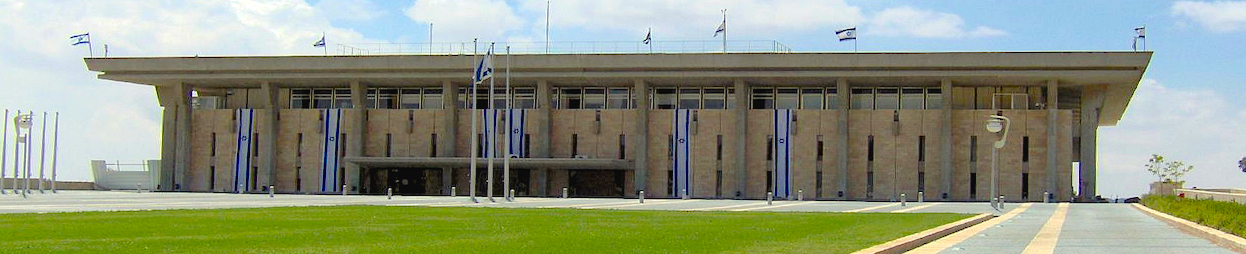
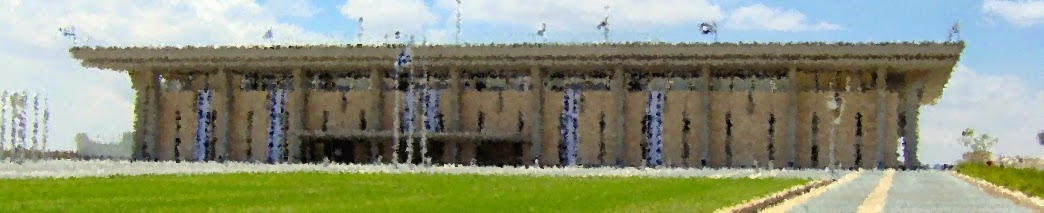
layout

diff --git a/app/assets/stylesheets/home.css.scss b/app/assets/stylesheets/home.css.scss
@@ -3,8 +3,7 @@
 // You can use Sass (SCSS) here: http://sass-lang.com/
 
 html, body {
-  background-image: url("brickwall.png"); 
-  /*background-color: #181818 !important;*/
+  background-color: #DDDDDD !important;
 }
 
 .container {
@@ -12,14 +11,12 @@ html, body {
 }
 
 .home-header {
-  background: url(knesset2.jpg) no-repeat left;
-  background-size: 100%;
   padding-top: 20px;
   padding-bottom: 0px;
   font-size: 24px;
   text-align: left;
   margin-bottom: 20px;
-  border: 1px solid #FFFFFF !important;
+  border-bottom: 1px solid #FFFFFF !important;
   box-shadow: 1px 1px 1px #9c9c9c !important;
 }
 
@@ -58,7 +55,7 @@ margin-right: -15px !important;
 }
 
 .navbar {
-  margin-top: 120px;
+  margin-top: 130px;
   background: #4F2C4D !important; 
   opacity: 0.95 !important;
   border: 1px solid #ffffff !important;
@@ -68,12 +65,12 @@ margin-right: -15px !important;
 }
 
 .navbar .nav {
-  padding-right: 100px;
+  padding-right: 50px;
 }
 
 .navbar .nav > li {
   font-family: 'Oswald', sans-serif;
-  font-size: 18px;
+  font-size: 16px;
   padding-right: 5px;
 }
 
@@ -82,17 +79,17 @@ margin-right: -15px !important;
 }
 
 .navbar-nav > li > a:hover {
-  background-color: #bb84b8 !important;
+  background-color: #c291bf !important;
 }
 
 .nav-search {
-  padding: 0px 350px 0px 0px;
+  padding: 0px 450px 0px 0px;
 }
 
 .nav-pills > li > a {
   font-size: 1.4em;
-  color: #708090;
-  background-color: #d4d8dd;
+  color: #585858;
+  background-color: #c6c6c6;
   margin-bottom: 20px !important;
 }
 
@@ -105,19 +102,19 @@ margin-right: -15px !important;
 }
 
 .title {
-  color: #708090;
+  color: #585858;
   margin-top: 5px !important;
   margin-bottom: 15px !important;
 }
 
 .title-small {
-  color: #708090;
+  color: #585858;
   margin-top: 0px !important;
   margin-bottom: 10px !important;
 }
 
 .post {
-  border: 1px solid #dbdee2;
+  border: 1px solid #c6c6c6;
   border-radius: 3px;
   margin: 5px;
   position: relative;
@@ -158,14 +155,16 @@ margin-right: -15px !important;
 }
 
 .latest-raw-posts {
-  margin-top: 150px;
+  margin-top: 128px;
   padding-top: 20px;
-  border: 1px solid #dbdee2;
+  border: 1px solid #c6c6c6;
   background: #ffffff;
+  opacity: 0.7;
 }
 
 .raw-small-title {
-  color: #FFFFFF;
+  color: #585858;
+  margin-top:-5px;
 }
 
 .raw-post {

diff --git a/app/controllers/home_controller.rb b/app/controllers/home_controller.rb
@@ -2,6 +2,8 @@ class HomeController < ApplicationController
 
   caches_action :index, cache_path: lambda { |e| "home-#{params[:deleted_page]}-#{params[:edited_page]}" }
 
+  before_filter { use_cover_photo 'knesset.jpg' }
+
   def index
   	@deleted_posts = Post.all.order(created_at: :desc).where(status: "deleted").paginate(page: params[:deleted_page], per_page: 5)
     @edited_posts = Post.all.order(created_at: :desc).where(status: "edited").paginate(page: params[:edited_page], per_page: 5)

diff --git a/app/controllers/yairs_controller.rb b/app/controllers/yairs_controller.rb
@@ -1,10 +1,15 @@
 class YairsController < ApplicationController
 
   before_filter :authorize, only: [:new, :edit, :destroy]
+  before_filter { use_cover_photo 'reps.jpg' }
 
   def index
       @yair = Yair.where(field: params[:field])
       @yair = @yair.sort_by { |y| y.last_name }.paginate(page: params[:page], per_page: 10)
+
+      if params[:field] == "figures"
+        use_cover_photo 'figures.jpg' 
+      end
   end
 
   def by_letter

diff --git a/app/controllers/stats_controller.rb b/app/controllers/stats_controller.rb
@@ -1,6 +1,8 @@
 require 'poligaffes/stats/polistats'
 class StatsController < ApplicationController
 
+	before_filter { use_cover_photo 'stats.jpg' }
+
 
   def index
     @weekly_top =  Rails.cache.fetch('weekly_top-cache-key')  { Hash[['posts', 'deleted', 'edited'].map { |k| [k, Poligaffes::Stats.top_posts(k, 7)] }] }

diff --git a/app/controllers/application_controller.rb b/app/controllers/application_controller.rb
@@ -12,4 +12,8 @@ class ApplicationController < ActionController::Base
   	def authorize
   		redirect_to login_url, alert: "Not authorized!" if current_user.nil?
   	end
+
+    def use_cover_photo(photo)
+      @cover_photo = photo
+    end
 end
